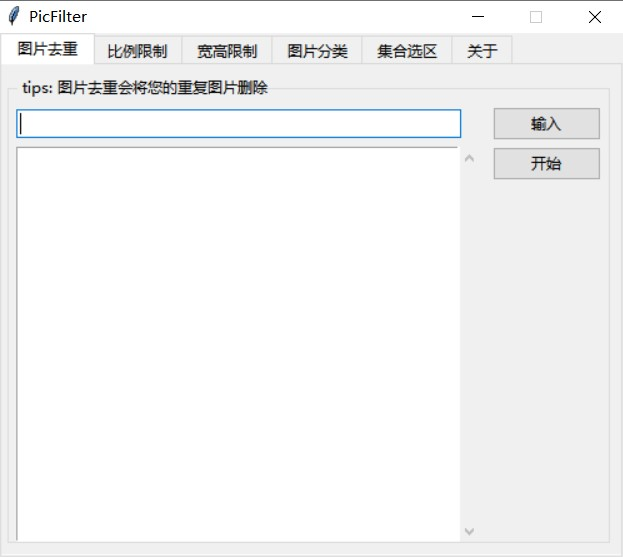
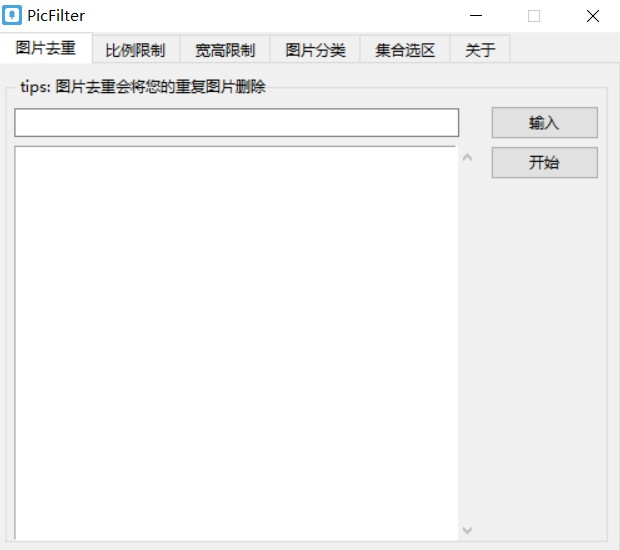
程序关闭后移除临时图标文件

diff --git a/GUI.py b/GUI.py
@@ -1,4 +1,5 @@
 import base64
+import os
 import Filter
 import webbrowser
 import tkinter as tk
@@ -293,4 +294,4 @@ class App:
 if __name__ == '__main__':
     app = App()
     app.root.mainloop()
-
+    os.remove('favicon.ico')
